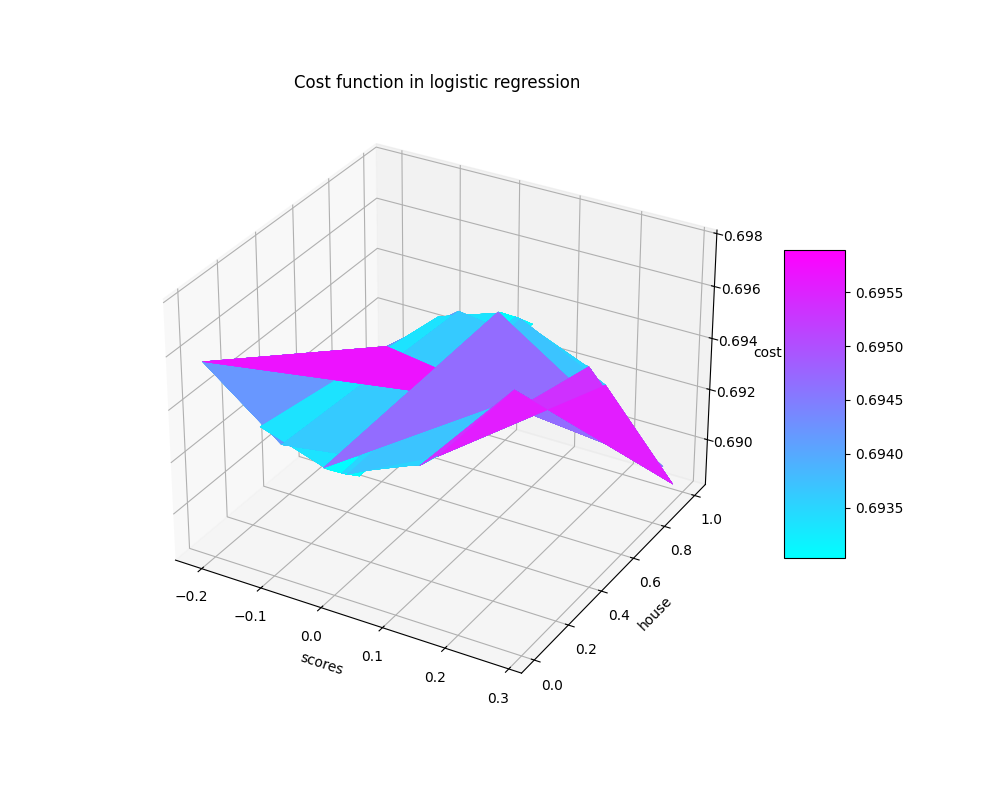
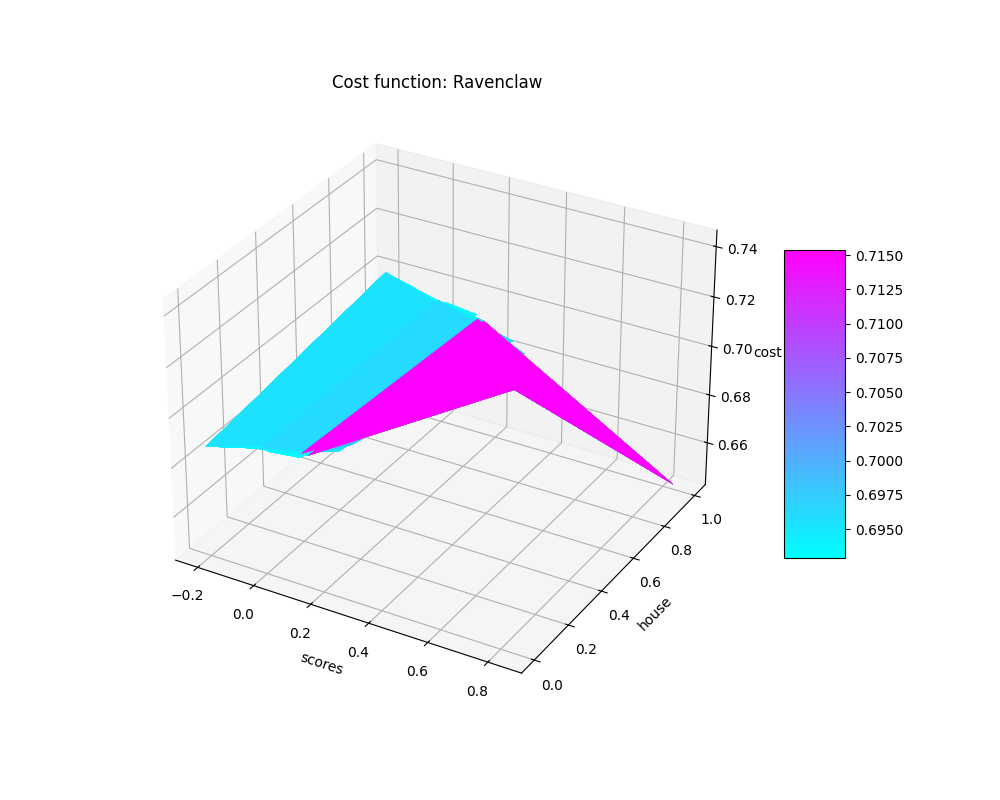
wip cost function

diff --git a/cost.py b/cost.py
@@ -10,10 +10,14 @@ from matplotlib.pyplot import savefig, show, \
                               title, figure
 
 
+HOUSE = 'Ravenclaw'
+HOUSE_INDEX = 2
+
 def get_cost() -> any:
     houses = ["Gryffindor", "Hufflepuff", "Ravenclaw", "Slytherin"]
 
     ndf = load("dataset_train.csv")
+    ndf = ndf.fillna(0)
 
     lhs = ndf['Hogwarts House']
     rhs = ndf.iloc[:, 5:]
@@ -38,8 +42,11 @@ def get_cost() -> any:
     theta_1 = w
 
     # Choose here 0, 1, 2 or 3 depending on the house you want to analyze below
-    real_houses = [1 if houses.index(h) == 0 else 0 for h in lhs]
-
+    real_houses = [1 if houses.index(h) == HOUSE_INDEX else 0 for h in lhs]
+    # print("real houses", real_houses)
+    # Choose here 'Gryffindor', 'Hufflepuff", "Ravenclaw", "Slytherin"
+    # depending on the house you want to analyze below
+    name = HOUSE
     # meshgrid is a function from the numpy library used to create coordinate grids,
     # typically for 3D plotting or evaluating functions over a 2D domain
     # numpy.meshgrid(*xi, indexing='xy')
@@ -62,7 +69,8 @@ def get_cost() -> any:
             # Mean along axis 0 (columns): this calculates the mean for each column (across the rows).
             # The result will be a 1D array with the shape (13,):
             # print("shape theta_1:", mean(theta_1, axis=0).shape)
-            t_1 = mean(theta_1, axis=0)[j]
+            # t_1 = mean(theta_1, axis=0)[j]
+            t_1 = theta_1[HOUSE_INDEX][j]
             z = A[i, j] * t_1 + theta_0
             y_hat[i, j] = 1 / (1 + e ** -z)
             loss[i, j] = -B[i, j] * log(y_hat[i, j]) - (1 - B[i, j]) * log(1 - y_hat[i, j])
@@ -72,7 +80,7 @@ def get_cost() -> any:
     surface = ax.plot_surface(A, B, loss, cmap='cool',
                               edgecolor='none')
     fig.colorbar(surface, ax=ax, shrink=0.5, aspect=5)
-    title("Cost function in logistic regression")
+    title(f"Cost function: {name}")
     ax.set_xlabel("scores")
     ax.set_ylabel("house")
     ax.set_zlabel("cost")
